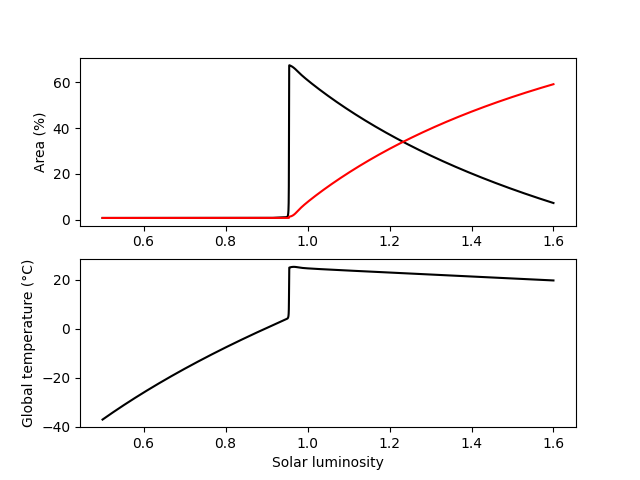
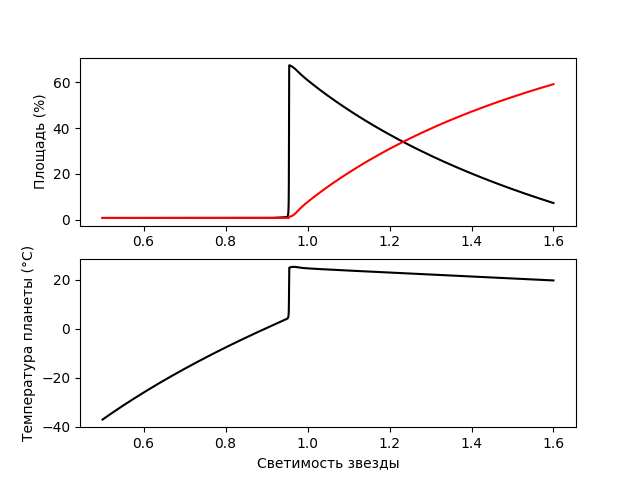
екурцу5ой

Changed region(s): [[0.4062, 0.9375, 0.625, 1.0], [0.0312, 0.5, 0.0625, 0.9062], [0.0312, 0.2188, 0.0938, 0.375]]

diff --git a/DW.py b/DW.py
@@ -26,7 +26,7 @@ def find_s(R, T, a):
     S = R**2 * sigma * T**4 / a**2
     return S
 
-S = find_s(R_2, T_2, a_2)
+S = find_s(R_1, T_1, a_1)
 
 
 if __name__ == '__main__':
@@ -73,4 +73,4 @@ if __name__ == '__main__':
     ax[1].plot(luminosity, temp_planet_a-273.15, color='black')
     ax[1].set_xlabel('Светимость звезды')
     ax[1].set_ylabel('Температура планеты (°C)')
-    plt.savefig('DW_ross128b.png')
+    plt.savefig('DW_gliese667cc.png')
